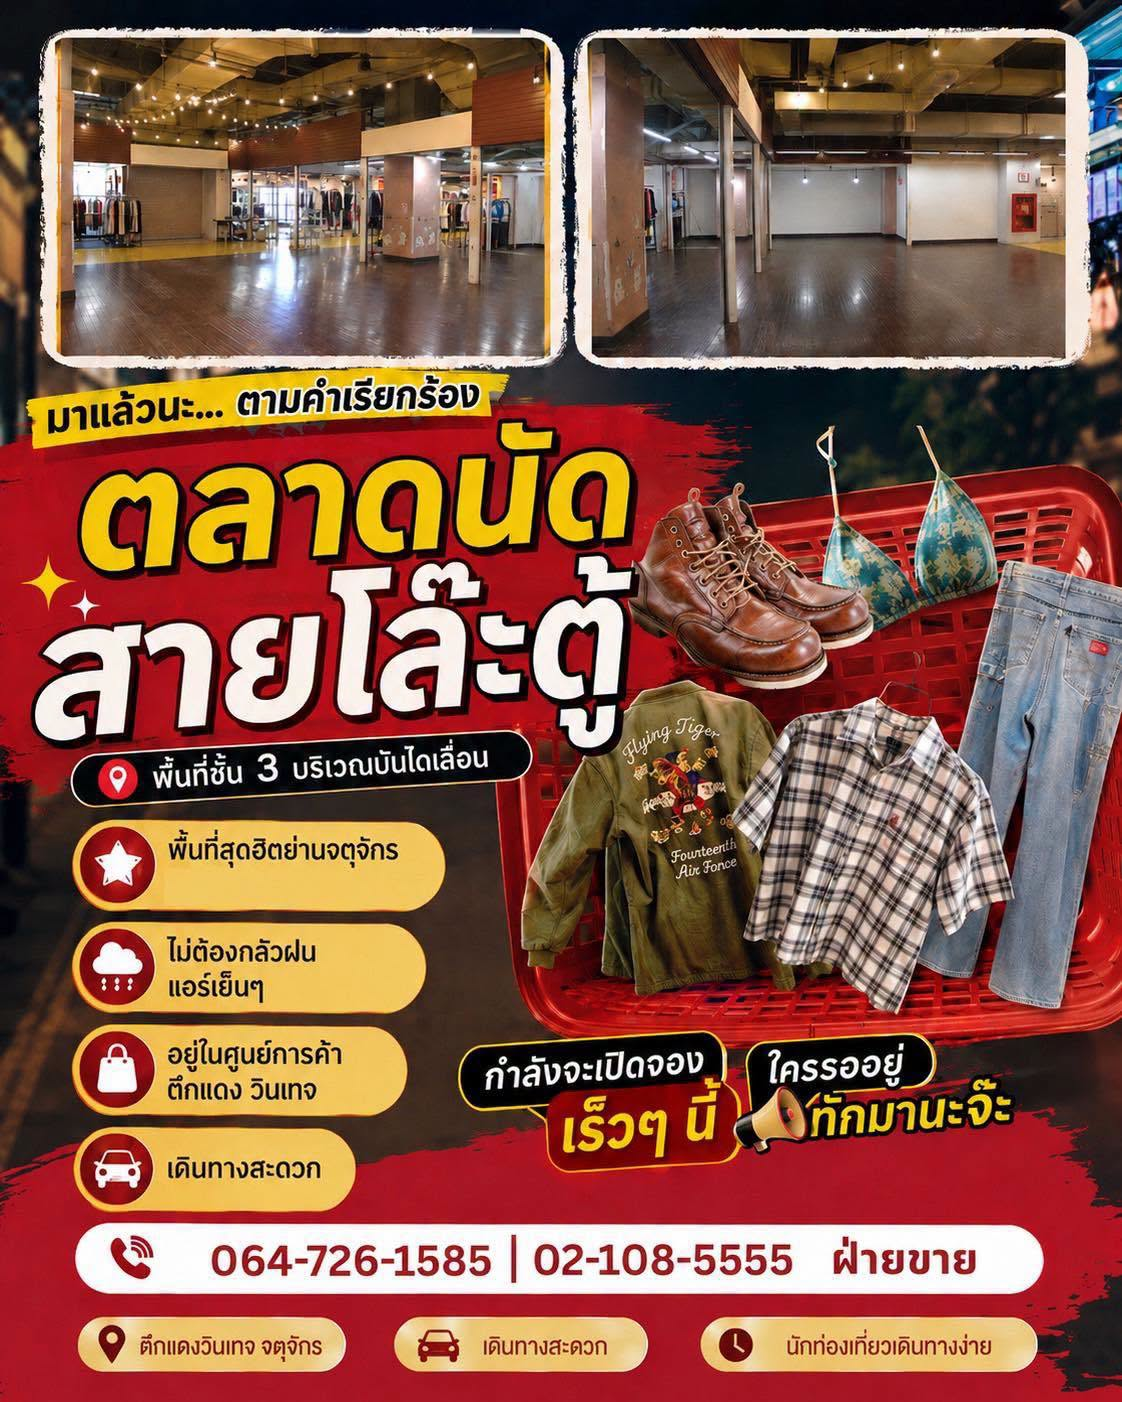
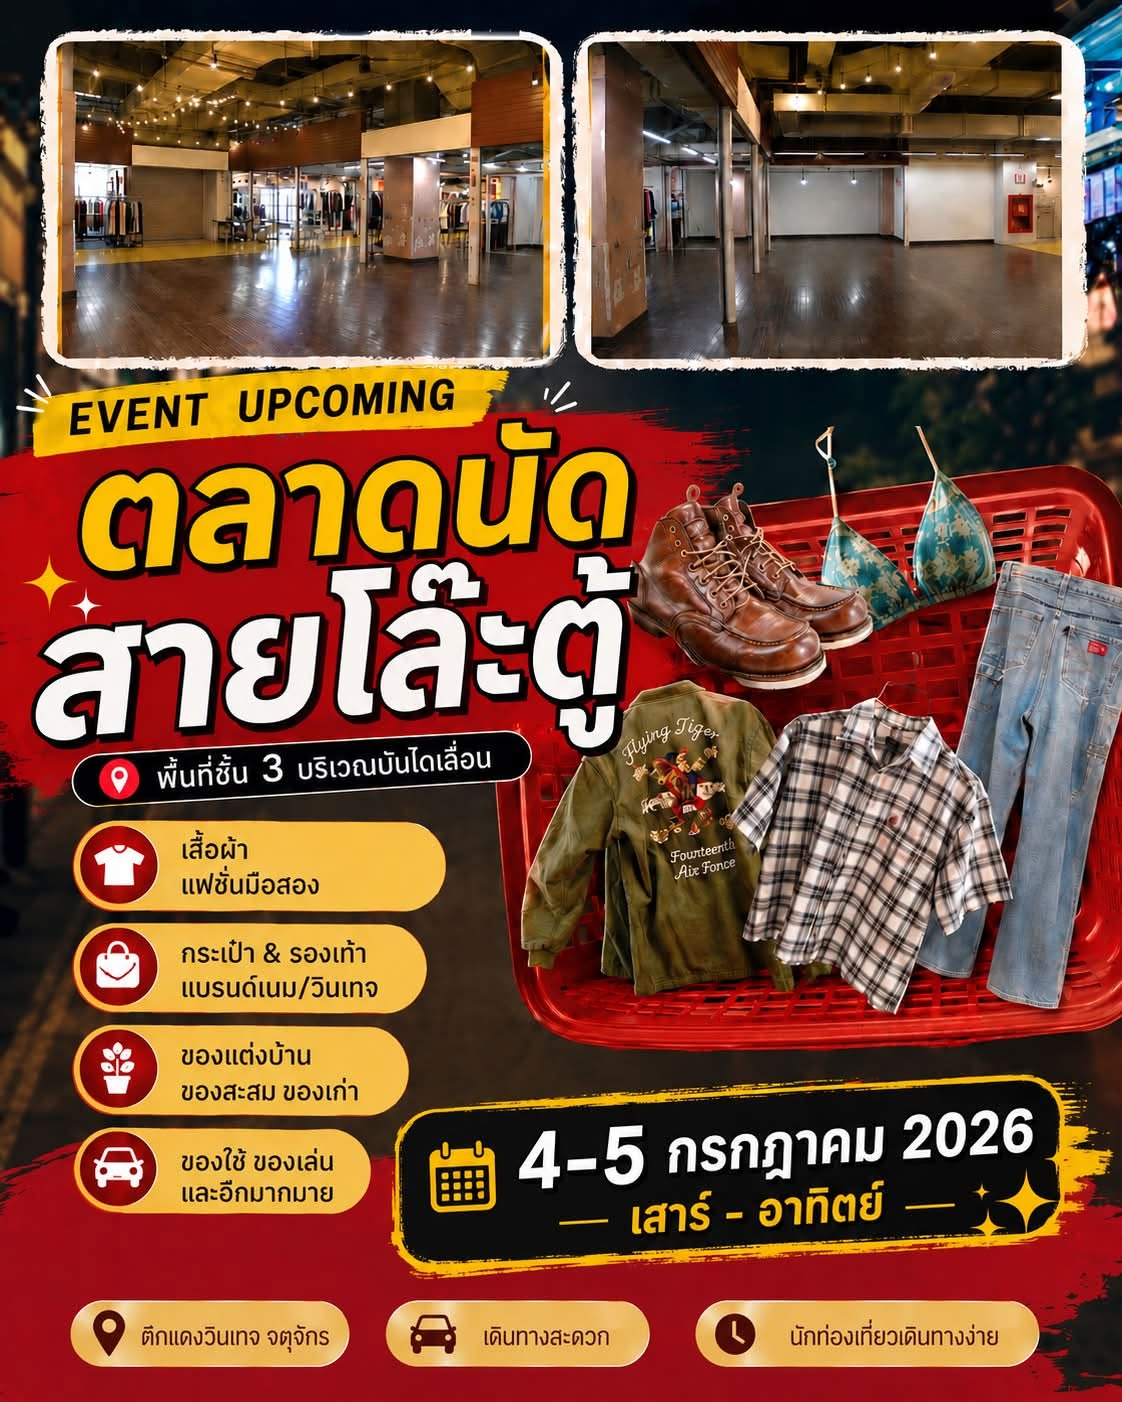
Update About page

diff --git a/collected.html b/collected.html
@@ -1,0 +1,152 @@
+<!DOCTYPE html>
+<html lang="en">
+
+<head>
+    <meta charset="UTF-8">
+    <meta name="viewport" content="width=device-width, initial-scale=1.0">
+    <title>Craft-P | Collected</title>
+
+    <link rel="preconnect" href="https://fonts.googleapis.com">
+    <link rel="preconnect" href="https://fonts.gstatic.com" crossorigin>
+    <link href="https://fonts.googleapis.com/css2?family=IBM+Plex+Sans:wght@300;400;500;600&display=swap" rel="stylesheet">
+
+    <link rel="stylesheet" href="css/style.css">
+</head>
+
+<body>
+
+<header class="site-header">
+    <a href="index.html" class="logo">
+        <img src="images/logo/craftp-black.png" alt="Craft-P">
+    </a>
+
+     <nav>
+        <a href="miniature.html">Miniature</a>
+        <a href="lifestyle.html">Lifestyle</a>
+        <a href="collected.html">Collected</a>
+        <a href="events.html">Meet</a>
+        <a href="about.html">About</a>
+    </nav>
+</header>
+
+<main class="collection-page">
+
+    <section class="collection-hero">
+        <p class="piece-id">CRAFT-P COLLECTED</p>
+        <h1>Collected</h1>
+        <p>
+            The dolls, miniatures, and tiny worlds
+            that continue to inspire Craft-P.
+            
+            Some are part of a personal collection.
+            Some may be looking for a new home.
+            Every piece has a story.
+       </p>
+    </section>
+
+    <section class="product-grid">
+
+    <article class="piece-card">
+
+        <div class="piece-card-image placeholder">
+            <span>Blythe</span>
+        </div>
+
+        <h2>Blythe and BJD 1/6</h2>
+
+        <p>
+            Dolls, outfits, furniture,
+            miniatures and tiny stories.
+        </p>
+
+        <a href="collection/blythe.html">
+            View Collection
+        </a>
+
+    </article>
+
+
+    <article class="piece-card">
+
+        <div class="piece-card-image placeholder">
+            <span>BJD 1/8</span>
+        </div>
+
+        <h2>BJD 1/8</h2>
+
+        <p>
+            Dolls, miniatures and accessories
+            for 1/8 scale collections.
+        </p>
+
+        <a href="collection/bjd18.html">
+            View Collection
+        </a>
+
+    </article>
+
+
+    <article class="piece-card">
+
+        <div class="piece-card-image placeholder">
+            <span>OB11</span>
+        </div>
+
+        <h2>OB11</h2>
+
+        <p>
+            Tiny companions,
+            miniatures and everyday moments.
+        </p>
+
+        <a href="collection/ob11.html">
+            View Collection
+        </a>
+
+    </article>
+
+
+    <article class="piece-card">
+
+        <div class="piece-card-image placeholder">
+            <span>Model</span>
+        </div>
+
+        <h2>Model</h2>
+
+        <p>
+            Figures, displays
+            and collectible inspirations.
+        </p>
+
+        <a href="collection/model.html">
+            View Collection
+        </a>
+
+    </article>
+
+</section>
+
+</main>
+ 
+<footer class="site-footer">
+
+    <h3>Craft-P Studio</h3>
+
+    <p>
+        Quiet in appearance.<br>
+        Bold in the details.
+    </p>
+
+    <div class="footer-links">
+        <a href="https://www.instagram.com/craftp2020">Instagram</a>
+        <a href="https://www.facebook.com/craftp2020">Facebook</a>
+    </div>
+
+    <small>© 2026 Craft-P Studio</small>
+
+</footer>
+
+</body>
+</html>
+

diff --git a/collection/blythe.html b/collection/blythe.html
@@ -1,0 +1,108 @@
+<!DOCTYPE html>
+<html lang="en">
+
+<head>
+    <meta charset="UTF-8">
+    <meta name="viewport" content="width=device-width, initial-scale=1.0">
+    <title>Craft-P | Blythe Collection</title>
+
+    <link rel="stylesheet" href="../css/style.css">
+</head>
+
+<body>
+
+<header class="site-header">
+    <a href="../index.html" class="logo">
+        <img src="../images/logo/craftp-black.png" alt="Craft-P">
+    </a>
+
+    <nav>
+        <a href="../miniature.html">Miniature</a>
+        <a href="../lifestyle.html">Lifestyle</a>
+        <a href="../collected.html">Collected</a>
+        <a href="../events.html">Meet</a>
+        <a href="../about.html">About</a>
+    </nav>
+</header>
+
+<main class="collection-page">
+
+    <section class="collection-hero">
+        <p class="piece-id">COLLECTED</p>
+
+        <h1>Blythe</h1>
+
+        <p>
+            Dolls, outfits, furniture,
+            miniatures and tiny stories collected for Blythe.
+        </p>
+    </section>
+
+    <section class="product-grid">
+
+        <article class="piece-card">
+            <div class="piece-card-image placeholder">
+                <span>Photo</span>
+            </div>
+
+            <h2>Neo Blythe</h2>
+
+            <p>Collected Doll</p>
+
+            <span>Collection Only</span>
+
+            <a href="#">View Collection</a>
+        </article>
+
+        <article class="piece-card">
+            <div class="piece-card-image placeholder">
+                <span>Photo</span>
+            </div>
+
+            <h2>Blythe Outfit</h2>
+
+            <p>Outfit</p>
+
+            <span>THB 1,200</span>
+
+            <a href="#">View Collection</a>
+        </article>
+
+        <article class="piece-card">
+            <div class="piece-card-image placeholder">
+                <span>Photo</span>
+            </div>
+
+            <h2>Miniature Chair</h2>
+
+            <p>Furniture</p>
+
+            <span>Collection Only</span>
+
+            <a href="#">View Collection</a>
+        </article>
+
+    </section>
+
+</main>
+
+<footer class="site-footer">
+
+    <h3>Craft-P Studio</h3>
+
+    <p>
+        Quiet in appearance.<br>
+        Bold in the details.
+    </p>
+
+    <div class="footer-links">
+        <a href="https://www.instagram.com/craftp2020">Instagram</a>
+        <a href="https://www.facebook.com/craftp2020">Facebook</a>
+    </div>
+
+    <small>© 2026 Craft-P Studio</small>
+
+</footer>
+
+</body>
+</html>

diff --git a/events.html b/events.html
@@ -23,6 +23,7 @@
     <nav>
         <a href="miniature.html">Miniature</a>
         <a href="lifestyle.html">Lifestyle</a>
+        <a href="collected.html">Collected</a>
         <a href="events.html">Meet</a>
         <a href="about.html">About</a>
     </nav>
@@ -313,13 +314,7 @@
             <img src="images/events/past/event-04-1.jpg" alt="Doll Meet & Party 2025">
         </div>
 
-        <div class="past-event-thumbs">
-
-            <img src="images/events/past/event-04-2.jpg" alt="Doll Meet & Party 2025">
-            <img src="images/events/past/event-04-3.jpg" alt="Doll Meet & Party 2025">
-
         </div>
-    </div>
 
     <div class="past-event-info">
 

diff --git a/piece-miniature-handmade-template.html b/piece-miniature-handmade-template.html
@@ -23,7 +23,8 @@
      <nav>
         <a href="miniature.html">Miniature</a>
         <a href="lifestyle.html">Lifestyle</a>
-        <a href="events.html">Meet</a>
+        <a href="collected.html">Collected</a>
+        <a href="events.html">Events</a>
         <a href="about.html">About</a>
     </nav>
 </header>

diff --git a/css/style.css b/css/style.css
@@ -325,6 +325,8 @@ nav a{
 }
 
 .piece-card a{
+    display:inline-block;
+    margin-top:14px;
     color:var(--text);
     text-decoration:none;
     border-bottom:2px solid var(--red);

diff --git a/about.html b/about.html
@@ -27,6 +27,7 @@
     <nav>
         <a href="miniature.html">Miniature</a>
         <a href="lifestyle.html">Lifestyle</a>
+        <a href="collected.html">Collected</a>
         <a href="events.html">Meet</a>
         <a href="about.html" class="active">About</a>
     </nav>

diff --git a/collection/bjd18.html b/collection/bjd18.html
@@ -1,0 +1,1 @@
+.

diff --git a/index.html b/index.html
@@ -22,6 +22,7 @@
      <nav>
         <a href="miniature.html">Miniature</a>
         <a href="lifestyle.html">Lifestyle</a>
+        <a href="collected.html">Collected</a>
         <a href="events.html">Meet</a>
         <a href="about.html">About</a>
     </nav>

diff --git a/lifestyle.html b/lifestyle.html
@@ -23,6 +23,7 @@
      <nav>
         <a href="miniature.html">Miniature</a>
         <a href="lifestyle.html">Lifestyle</a>
+        <a href="collected.html">Collected</a>
         <a href="events.html">Meet</a>
         <a href="about.html">About</a>
     </nav>

diff --git a/miniature.html b/miniature.html
@@ -23,6 +23,7 @@
      <nav>
         <a href="miniature.html">Miniature</a>
         <a href="lifestyle.html">Lifestyle</a>
+        <a href="collected.html">Collected</a>
         <a href="events.html">Meet</a>
         <a href="about.html">About</a>
     </nav>

diff --git a/piece-lifestyle-handmade-template copy.html b/piece-lifestyle-handmade-template copy.html
@@ -23,6 +23,7 @@
     <nav>
         <a href="miniature.html">Miniature</a>
         <a href="lifestyle.html">Lifestyle</a>
+        <a href="collected.html">Collected</a>
         <a href="events.html">Meet</a>
         <a href="about.html">About</a>
     </nav>